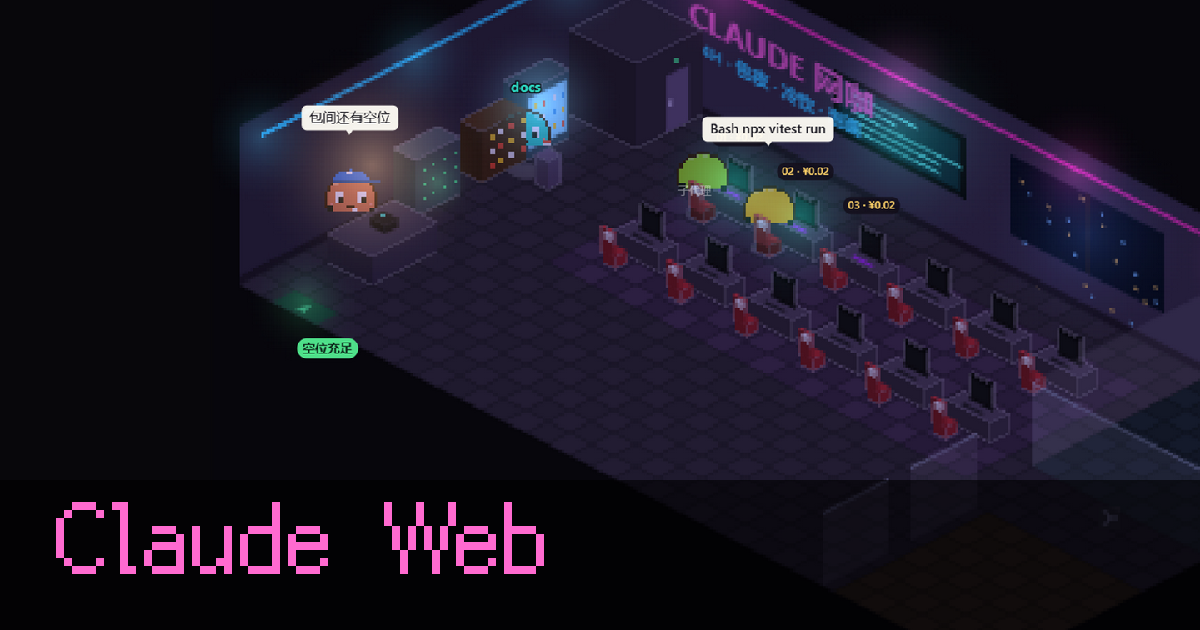
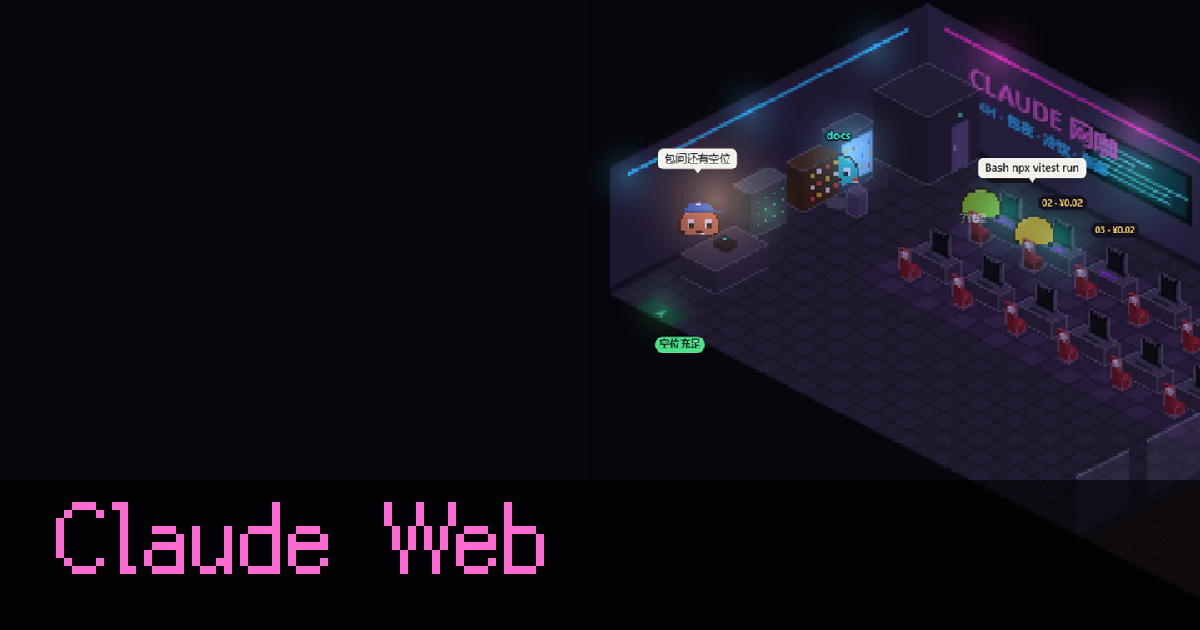
fix(site): 首屏的门口牌、网管气泡不再压在文案上（镜头右移拉远 + 文案框里抹掉标签），重拍海报和分享图；章节卡片层挪到章节后面（Tab 顺序）；首屏按键让放映厅先处理、点按看 pointerdown 的类型；海报不 decoding=async；网管喊话的英文改短，不再被截断

diff --git a/site/src/hero/main.ts b/site/src/hero/main.ts
@@ -3,8 +3,8 @@
 import { BUILTIN, resolveCharacter, sceneSize, type Look, type View, type World } from './engine';
 import { Demo, POSTER_MS } from './demo';
 import { AGENT_NIGHT } from './palette';
-import { LayeredCanvas } from './Scene';
-import { anchorFor, cameraView, CAMERA_MS, easeView, HERO_LOOK, type ChapterLook } from './chapters';
+import { LayeredCanvas, type Keepout } from './Scene';
+import { anchorFor, cameraView, CAMERA_MS, easeView, HERO_LOOK, heroLookFor, type ChapterLook } from './chapters';
 import { pointerNorm } from './motion';
 import { installChapters } from './overlays';
 import { installInteract } from './interact';
@@ -72,6 +72,15 @@ export function startHero(root: HTMLElement, opts: HeroOptions): Hero {
     stop() { running = false; cancelAnimationFrame(raf); },
   };
 
+  // the hero's copy, in the canvases' device px, while it is over the stage: no scene label is drawn there
+  const copyEl = document.querySelector<HTMLElement>('.hero-copy');
+  function keepout(dpr: number): Keepout | null {
+    if (!copyEl) return null;
+    const r = copyEl.getBoundingClientRect(), s = root.getBoundingClientRect();
+    if (r.bottom <= s.top || r.top >= s.bottom || r.width === 0) return null;
+    return { x: (r.left - s.left) * dpr, y: (r.top - s.top) * dpr, w: r.width * dpr, h: r.height * dpr };
+  }
+
   function draw(t: number) {
     const dt = last ? Math.min(250, t - last) : 16;
     last = t;
@@ -79,14 +88,14 @@ export function startHero(root: HTMLElement, opts: HeroOptions): Hero {
     const { w: cw, h: ch, dpr } = renderer.size(root);
     hero.dpr = dpr;
     const sz = sceneSize(hero.demo.world.map);
-    const target = cameraView(camTo, sz, cw, ch, anchorFor(cw / dpr));
+    const target = cameraView(camTo === HERO_LOOK ? heroLookFor(cw / dpr) : camTo, sz, cw, ch, anchorFor(cw / dpr));
     hero.view = camFrom ? easeView(camFrom, target, (t - camAt) / CAMERA_MS) : target;
     if (camFrom && t - camAt >= CAMERA_MS) camFrom = null;
     let w = hero.demo.world;
     if (!bootAt) bootAt = t;
     if (!hero.still) w = booting(w, t - bootAt);
     for (const f of hero.tweaks) w = f(w, hero.demo.now());
-    renderer.frame({ world: w, view: hero.view, pointer: hero.pointer, look: hero.look(), dtMs: dt, cw, ch });
+    renderer.frame({ world: w, view: hero.view, pointer: hero.pointer, look: hero.look(), dtMs: dt, cw, ch, keepout: keepout(dpr) });
     for (const f of hero.onFrame) f(dt);
     root.dataset.live = '1';
   }

diff --git a/web/src/i18n/en.ts b/web/src/i18n/en.ts
@@ -889,7 +889,7 @@ export const EN_WEB: Record<string, string> = {
   "允许请点卡片上的「允许操控」，按键不会允许": "To allow, click “Allow control” on the card; a keypress won't allow it",
   "允许这一次（输入框空着时按 Enter 也是）": "Allow this once (Enter also works when the input box is empty)",
   "允许，并写进权限规则，之后同样的操作不再询问：\n{alwaysDetails}": "Allow, and save it as a permission rule so the same action isn't asked about again:\n{alwaysDetails}",
-  "充电宝记得还": "Remember to return the power bank",
+  "充电宝记得还": "Return the power bank",
   "先写一句提交说明": "Write a commit message first",
   "先出一个方案给我看，我同意之后再动手：": "Give me a plan first, and start only after I agree: ",
   "先出方案再动手": "Plan first, then act",
@@ -1143,7 +1143,7 @@ export const EN_WEB: Record<string, string> = {
   "动态": "Activity",
   "包含：src/**, *.ts": "Include: src/**, *.ts",
   "包间 · 后台命令": "Private room · Background commands",
-  "包间还有空位": "Private rooms still available",
+  "包间还有空位": "Private rooms available",
   "匹配的对话": "Matching conversations",
   "区分大小写": "Match case",
   "区域：{area}": "Area: {area}",
@@ -1634,7 +1634,7 @@ export const EN_WEB: Record<string, string> = {
   "将先备份到 ~/.claude-web/library-trash，再{where}": "A backup goes to ~/.claude-web/library-trash first, then: {where}",
   "将删除 {listCount} 个对话（{parts}）": "Will delete {listCount} {listCount?conversation:conversations} ({parts})",
   "小写字母、数字、连字符": "Lowercase letters, numbers, hyphens",
-  "小声点，有人在写代码": "Keep it down, someone's coding",
+  "小声点，有人在写代码": "Shh, someone's coding",
   "尚未检查": "Not checked yet",
   "尚未索引": "Not indexed yet",
   "就绪后自动合并": "Auto-merge when ready",
@@ -3247,7 +3247,7 @@ export const EN_WEB: Record<string, string> = {
   "读取配置中…": "Reading config…",
   "读网页": "Read web page",
   "谁在等你、谁在跑、谁出错了": "Who's waiting for you, who's running, who hit an error",
-  "谁的泡面没扔": "Whose instant noodles are still here?",
+  "谁的泡面没扔": "Whose noodles are these?",
   "调用": "Calls",
   "调用 {skill} 个 skill": "Called {skill} {skill?skill:skills}",
   "账号": "Account",

diff --git a/site/src/hero/Scene.ts b/site/src/hero/Scene.ts
@@ -5,7 +5,32 @@ import { darken, drawGlows, drawItems, drawRoom, labels, sceneSize, type Look, t
 import { isFront } from './layers';
 import { approach, LAYER_FACTORS, parallaxOffset } from './motion';
 
-export interface FrameInput { world: World; view: View; pointer: { x: number; y: number } | null; look: Look; dtMs: number; cw: number; ch: number }
+/** A box on the page canvas (device px) where no label may be drawn: the hero's copy. */
+export interface Keepout { x: number; y: number; w: number; h: number }
+export interface FrameInput { world: World; view: View; pointer: { x: number; y: number } | null; look: Look; dtMs: number; cw: number; ch: number; keepout?: Keepout | null }
+
+/** How far (device px) the labels fade back in past the keep-out box's right and top edges. */
+export const KEEPOUT_FADE = 32;
+
+/** Erase the labels over the copy: solid inside the box, fading out over KEEPOUT_FADE past its right and top edges. */
+export function clearKeepout(c: CanvasRenderingContext2D, k: Keepout): void {
+  if (k.w <= 0 || k.h <= 0) return;
+  c.save();
+  c.globalCompositeOperation = 'destination-out';
+  const right = c.createLinearGradient(k.x + k.w, 0, k.x + k.w + KEEPOUT_FADE, 0);
+  right.addColorStop(0, 'rgba(0,0,0,1)');
+  right.addColorStop(1, 'rgba(0,0,0,0)');
+  c.fillStyle = 'rgba(0,0,0,1)';
+  c.fillRect(k.x, k.y, k.w, k.h);
+  c.fillStyle = right;
+  c.fillRect(k.x + k.w, k.y, KEEPOUT_FADE, k.h);
+  const top = c.createLinearGradient(0, k.y, 0, k.y - KEEPOUT_FADE);
+  top.addColorStop(0, 'rgba(0,0,0,1)');
+  top.addColorStop(1, 'rgba(0,0,0,0)');
+  c.fillStyle = top;
+  c.fillRect(k.x, k.y - KEEPOUT_FADE, k.w, KEEPOUT_FADE);
+  c.restore();
+}
 
 /** The seam for another renderer (a real 3D one later, spec §7): tier.ts picks, main.ts drives. */
 export interface SceneRenderer {
@@ -105,5 +130,7 @@ export class LayeredCanvas implements SceneRenderer {
     ui.setTransform(1, 0, 0, 1, 0, 0);
     ui.clearRect(0, 0, f.cw, f.ch);
     labels(ui, w, view, sz, look);
+    // a safety net under the hero's camera: no door pill, bubble or seat tag over the title and its lines
+    if (f.keepout) clearKeepout(ui, f.keepout);
   }
 }

diff --git a/site/src/hero/chapters.test.ts b/site/src/hero/chapters.test.ts
@@ -1,7 +1,7 @@
 import { describe, expect, it } from 'vitest';
 import { buildMap, onPage, sceneSize } from './engine';
 import { EPOCH, snapshotAt } from './demo';
-import { anchorFor, cameraView, CHAPTERS, chapterById, easeView, HERO_LOOK } from './chapters';
+import { anchorFor, cameraView, CHAPTERS, chapterById, easeView, HERO_COPY_PX, HERO_LOOK, HERO_LOOK_PHONE, heroLookFor } from './chapters';
 
 const map = buildMap(snapshotAt(31_000), EPOCH + 31_000);
 const sz = sceneSize(map);
@@ -13,7 +13,7 @@ describe('chapters', () => {
     expect(chapterById('nope')).toBeUndefined();
   });
   it('look at points inside the room', () => {
-    for (const c of [...CHAPTERS.map((x) => x.look), HERO_LOOK]) {
+    for (const c of [...CHAPTERS.map((x) => x.look), HERO_LOOK, HERO_LOOK_PHONE]) {
       expect(c.u).toBeGreaterThanOrEqual(0);
       expect(c.u).toBeLessThanOrEqual(map.cols);
       expect(c.v).toBeGreaterThanOrEqual(0);
@@ -31,6 +31,19 @@ describe('chapters', () => {
       expect(Math.abs(p.y - a.y * 900)).toBeLessThan(0.5);
       expect(sz.w * v.scale).toBeGreaterThanOrEqual(1440);
     }
+  });
+  it('the first screen keeps the door sign and the counter right of the copy, the last seat on screen', () => {
+    for (const [cw, ch] of [[1280, 720], [1366, 768], [1440, 900], [1920, 1080]]) {
+      const v = cameraView(heroLookFor(cw), sz, cw, ch, anchorFor(cw));
+      const sign = onPage(v, sz, map.door.u + 2, map.door.v + 1, 0).x; // labels(): the door's pill, ~100 px wide
+      const admin = onPage(v, sz, map.admin.u + 0.5, map.admin.v + 0.5, 30).x; // its bubble, ~200 px wide
+      const lint = onPage(v, sz, 17, 3.3, 22).x; // the last seat's tag
+      expect(sign - 60, `${cw}: door sign`).toBeGreaterThanOrEqual(HERO_COPY_PX);
+      expect(admin - 110, `${cw}: admin`).toBeGreaterThanOrEqual(HERO_COPY_PX);
+      expect(lint + 30, `${cw}: last seat`).toBeLessThanOrEqual(cw);
+    }
+    expect(heroLookFor(390)).toBe(HERO_LOOK_PHONE);
+    expect(heroLookFor(1440)).toBe(HERO_LOOK);
   });
   it('phones look at the middle, desktops right of the copy', () => {
     expect(anchorFor(390).x).toBe(0.5);

diff --git a/site/src/hero/interact.ts b/site/src/hero/interact.ts
@@ -83,8 +83,11 @@ export function installInteract(hero: Hero): void {
     const r = root.getBoundingClientRect();
     showTip(hit && hit.kind !== 'machine' ? hit.key : null, hero.client.x - r.left, hero.client.y - r.top);
   });
+  // the pointer type comes from the pointerdown: Safari before 17 fires click as a MouseEvent without pointerType
+  let lastPointer = '';
+  root.addEventListener('pointerdown', (e) => { lastPointer = e.pointerType; }, { passive: true });
   root.addEventListener('click', (e) => {
-    if ((e as PointerEvent).pointerType === 'mouse' || (e.target as HTMLElement).closest('button, a, input, .ov')) return;
+    if (lastPointer === 'mouse' || (e.target as HTMLElement).closest('button, a, input, .ov')) return;
     const f = floorAt(e.clientX, e.clientY);
     const hit = hitTest(hero.demo.world, midView(), f.px, f.py);
     const r = root.getBoundingClientRect();
@@ -96,7 +99,9 @@ export function installInteract(hero: Hero): void {
   const konami = konamiDetector();
   let cycle = -1;
   addEventListener('keydown', (e) => {
-    if (e.ctrlKey || e.metaKey || e.altKey || editable(e.target)) return;
+    if (e.ctrlKey || e.metaKey || e.altKey || e.defaultPrevented || editable(e.target)) return;
+    // the showcase has its own ← / → (and handles them first when it has focus)
+    if (e.target instanceof Element && e.target.closest('#themes')) return;
     if (konami(e.key)) { const d = root.querySelector<HTMLElement>('[data-debug]'); if (d) d.hidden = !d.hidden; return; }
     if (e.key !== 'ArrowLeft' && e.key !== 'ArrowRight') return;
     const r = root.getBoundingClientRect();
@@ -110,7 +115,7 @@ export function installInteract(hero: Hero): void {
   });
 
   // "Allow" previews
-  const allow = root.querySelector<HTMLElement>('[data-decide="allow"]');
+  const allow = document.querySelector<HTMLElement>('[data-decide="allow"]');
   allow?.addEventListener('pointerenter', () => { preview = true; });
   allow?.addEventListener('pointerleave', () => { preview = false; });
   allow?.addEventListener('focus', () => { preview = true; });

diff --git a/site/src/hero/overlays.ts b/site/src/hero/overlays.ts
@@ -12,7 +12,9 @@ export function installChapters(hero: Hero): { active(): string | null } {
   const root = hero.root;
   const label = $<HTMLElement>(root, '[data-scene-label-el]');
   const heroAlt = label?.getAttribute('aria-label') ?? '';
-  const cards = new Map([...root.querySelectorAll<HTMLElement>('[data-overlay]')].map((el) => [el.dataset.overlay!, el]));
+  // the cards' layer follows the chapters in the DOM (tab order), outside the scene; it covers the same box
+  const layer = document.querySelector<HTMLElement>('[data-overlays]') ?? root;
+  const cards = new Map([...layer.querySelectorAll<HTMLElement>('[data-overlay]')].map((el) => [el.dataset.overlay!, el]));
   let active: ChapterSpec | null = null;
   let resultUntil = 0;
 
@@ -61,11 +63,11 @@ export function installChapters(hero: Hero): { active(): string | null } {
     btn.setAttribute('aria-expanded', String(open));
     if (panel) panel.hidden = !open;
   });
-  toggle($(root, '[data-turn]'), $(root, '[data-timeline]'));
-  toggle($(root, '[data-file]'), $(root, '[data-diff]'));
-  $<HTMLButtonElement>(root, '[data-run]')?.addEventListener('click', () => { const o = $<HTMLElement>(root, '[data-out]'); if (o) o.hidden = false; });
-  const result = $<HTMLElement>(root, '[data-result]');
-  for (const b of root.querySelectorAll<HTMLButtonElement>('[data-decide]')) {
+  toggle($(layer, '[data-turn]'), $(layer, '[data-timeline]'));
+  toggle($(layer, '[data-file]'), $(layer, '[data-diff]'));
+  $<HTMLButtonElement>(layer, '[data-run]')?.addEventListener('click', () => { const o = $<HTMLElement>(layer, '[data-out]'); if (o) o.hidden = false; });
+  const result = $<HTMLElement>(layer, '[data-result]');
+  for (const b of layer.querySelectorAll<HTMLButtonElement>('[data-decide]')) {
     b.addEventListener('click', () => {
       const allow = b.dataset.decide === 'allow';
       hero.demo.decide(allow);

diff --git a/site/src/styles/site.css b/site/src/styles/site.css
@@ -39,7 +39,9 @@ img { max-width: 100%; }
 .stage-scene[data-live] > img { visibility: hidden; }
 .stage-scene::after { content: ''; position: absolute; inset: 0; z-index: 1; pointer-events: none; background: linear-gradient(90deg, color-mix(in oklab, var(--bg-1) 88%, transparent) 0, color-mix(in oklab, var(--bg-1) 45%, transparent) 34%, transparent 62%), linear-gradient(0deg, var(--bg-1), transparent 22%); }
 .scene-a11y { position: absolute; inset: 0; pointer-events: none; }
-.scene-overlays { position: absolute; inset: 0; z-index: 2; pointer-events: none; }
+/* the chapter cards' layer comes after the chapters in the DOM (tab order) but covers the same box as the scene: sticky
+   to the bottom from the end of the stage, it sits wherever the top-sticky scene does */
+.scene-overlays { position: sticky; bottom: 0; height: 100svh; margin-top: -100svh; overflow: hidden; z-index: 2; pointer-events: none; }
 .ov { position: absolute; left: 0; top: 0; max-width: 340px; pointer-events: auto; padding: 12px 14px; border: 1px solid var(--line-1); border-radius: var(--r-md); background: color-mix(in oklab, var(--bg) 92%, transparent); box-shadow: 0 12px 40px rgba(0, 0, 0, 0.5); font-size: var(--fs-sm); will-change: transform; }
 .ov[hidden] { display: none; }
 .ov pre { margin: 8px 0; padding: 8px 10px; font-size: var(--fs-meta); }

diff --git a/site/src/hero/engine-en.generated.ts b/site/src/hero/engine-en.generated.ts
@@ -4,11 +4,11 @@ export const ENGINE_EN: Record<string, string> = {
   "CLAUDE 网咖": "CLAUDE Internet Café",
   "{padStart} 号机被叫下机": "PC {padStart} was called off",
   "{padStart} 号机还有 5 分钟": "PC {padStart} has 5 minutes left",
-  "充电宝记得还": "Remember to return the power bank",
-  "包间还有空位": "Private rooms still available",
+  "充电宝记得还": "Return the power bank",
+  "包间还有空位": "Private rooms available",
   "子代理": "Subagent",
   "客满 · 还有 {overflow} 位在排队": "Full house · {overflow} waiting in line",
-  "小声点，有人在写代码": "Keep it down, someone's coding",
+  "小声点，有人在写代码": "Shh, someone's coding",
   "小章鱼": "Little octopus",
   "座位 {padStart}  上机 {ms}:{padStart2}": "Seat {padStart}  Online {ms}:{padStart2}",
   "异常下机 · {name}": "Crashed · {name}",
@@ -20,6 +20,6 @@ export const ENGINE_EN: Record<string, string> = {
   "网管": "the admin",
   "网费 {yuan}": "Tab {yuan}",
   "被叫下机 · {name}": "Called off · {name}",
-  "谁的泡面没扔": "Whose instant noodles are still here?",
+  "谁的泡面没扔": "Whose noodles are these?",
   "费用未知": "Cost unknown",
 };

diff --git a/site/src/hero/chapters.ts b/site/src/hero/chapters.ts
@@ -18,8 +18,16 @@ export interface ChapterSpec {
 }
 
 export const CAMERA_MS = 400;
-/** The whole room, a little right of centre (the hero's copy is on the left). */
-export const HERO_LOOK: ChapterLook = { u: 14, v: 8, zoom: 1 };
+/**
+ * The first screen. Desktops: the room pulled out a little and to the right, so the door (and its sign) and the
+ * counter (the admin's bubble) stand right of the copy column (`.hero-copy`, 600 CSS px) from 1280 px wide up; the
+ * far right of the room is cut off instead. Phones (copy below the scene): the middle of the room.
+ */
+export const HERO_LOOK: ChapterLook = { u: 6.5, v: 15.5, zoom: 0.8 };
+export const HERO_LOOK_PHONE: ChapterLook = { u: 14, v: 8, zoom: 1 };
+/** The copy column's width on desktops (site.css: .hero-copy max-width). */
+export const HERO_COPY_PX = 600;
+export const heroLookFor = (cssWidth: number): ChapterLook => (cssWidth < 720 ? HERO_LOOK_PHONE : HERO_LOOK);
 // seats of the demo's one row: api u 7, tests u 10, docs u 13, lint u 16 (v 3, chair v 4); counter u 1–2 v 12–14;
 // the big screen u 9–15 on the back wall (h 18–40); the door (2, 17)
 export const CHAPTERS: ChapterSpec[] = [
